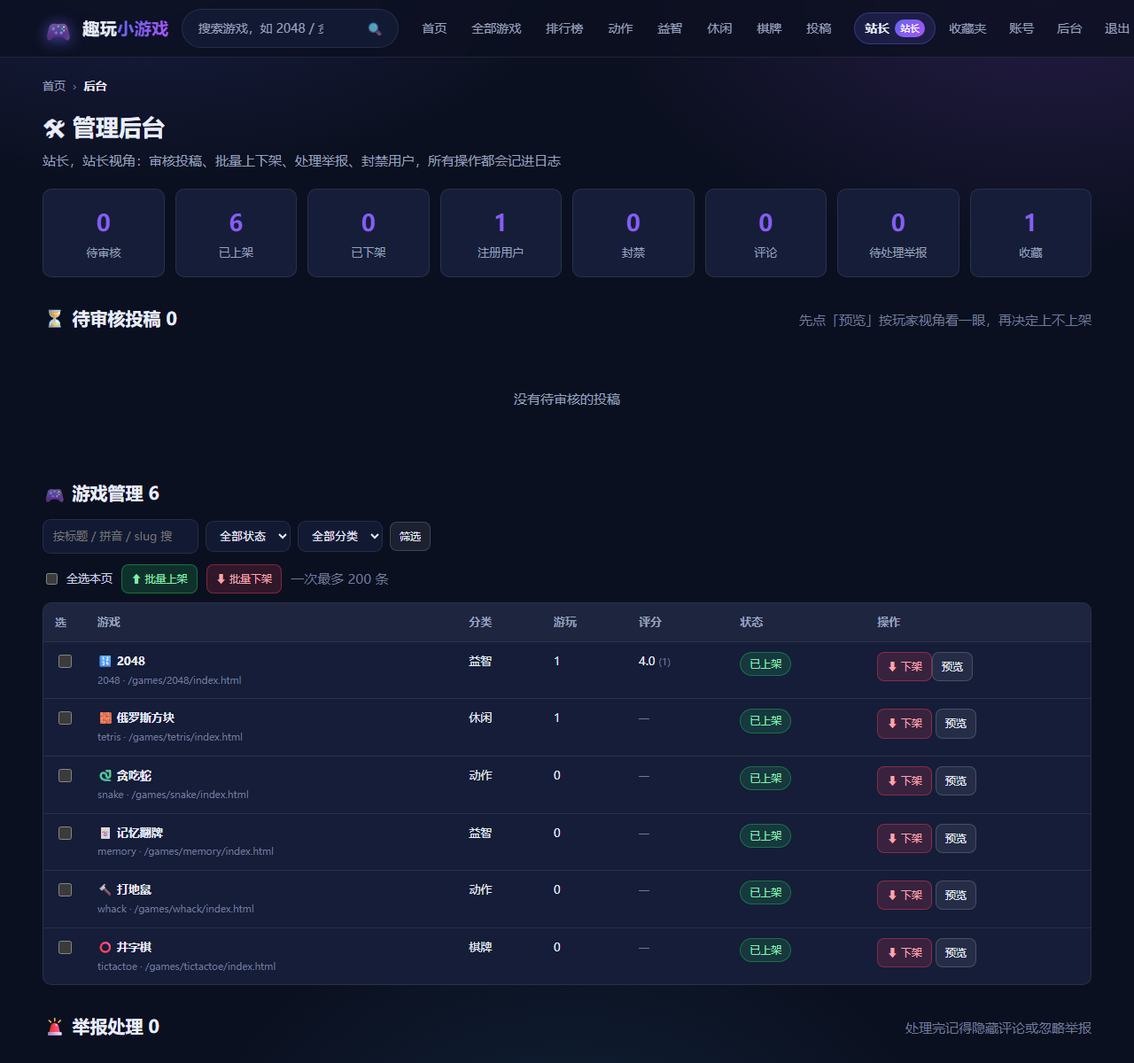
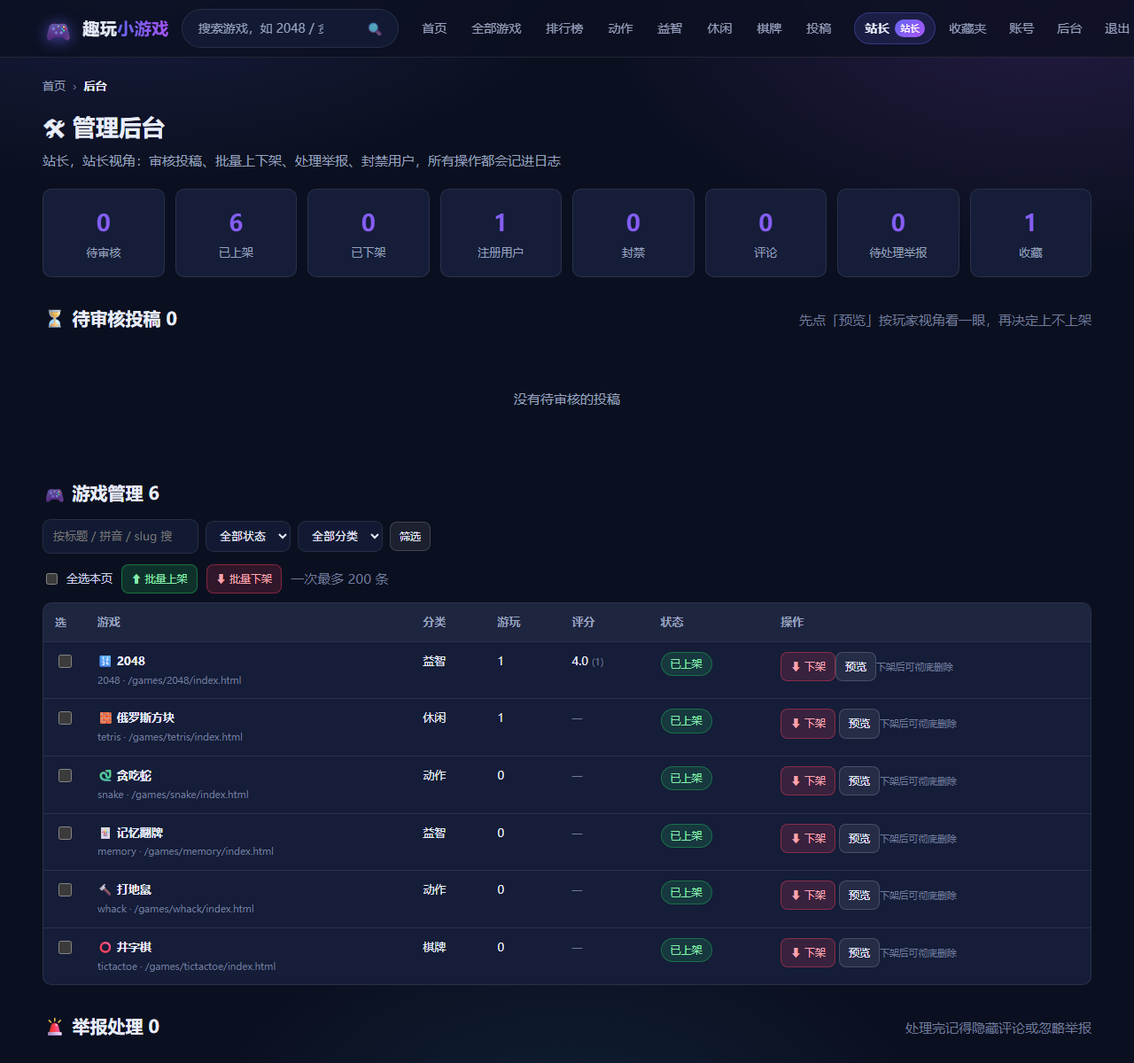
docs: README 与部署文档补彻底删除、集成自检与邮件/第三方登录，并重跑冒烟截图
- README：功能表与路由表补 /admin/games/:slug/delete、后台「集成自检」、邮件走 Resend 或自建 HTTP 接口、
  OAuth 端点可用 OAUTH_<PROVIDER>_*_URL 覆盖；安全设计补「先下架才能删」的事务式删除与「集成自检只回答
  配没配」；已验证段补 104 项功能、42 项邮件与登录断言，并说明新脚本会留下什么。
- DEPLOY-CLOUDFLARE-D1.md：变量表补 OAUTH_<PROVIDER>_*_URL，本机验证命令与实测结果补 104 / 42 项，
  老库升级段说明彻底删除不需要新表新列、集成自检在 /admin 上。
- DEPLOY-CLOUDFLARE-WORKERS.md：验收命令与计数同步到 104 项功能 + 42 项邮件与登录。
- docs/screens：重跑冒烟产生的截图（含后台、详情、排行榜、登录注册等）。

diff --git a/README.md b/README.md
@@ -2,7 +2,7 @@
 
 一个**开箱即跑**的在线小游戏聚合站最小原型：纯 HTML + Express 服务端渲染 + `node:sqlite` 存元数据。
 零前端框架、零构建步骤、零图片文件（封面是运行时生成的 SVG），`pnpm install` 后一条命令即可访问。
-自带完整的账号体系（注册登录、邮箱验证、找回密码、第三方登录、收藏、评论与楼中楼、举报）与站长后台（投稿审核、批量上下架、举报处理、封禁、操作日志），外加 SQLite 排行榜与拼音搜索；投稿可以直接上传**自包含的单文件 HTML**（存库、按 `/ugc/<slug>.html` 托管、用 CSP sandbox 隔离），全部落在本地 SQLite，不依赖任何外部服务。
+自带完整的账号体系（注册登录、邮箱验证、找回密码、第三方登录、收藏、评论与楼中楼、举报）与站长后台（投稿审核、批量上下架、举报处理、封禁、彻底删除、操作日志与集成自检），外加 SQLite 排行榜与拼音搜索；投稿可以直接上传**自包含的单文件 HTML**（存库、按 `/ugc/<slug>.html` 托管、用 CSP sandbox 隔离），全部落在本地 SQLite，不依赖任何外部服务。
 
 ![首页](docs/screens/home.png)
 
@@ -19,11 +19,11 @@
 | 手柄 | 6 款游戏全部支持游戏手柄（十字键 / 摇杆 / A / B / Start），零依赖共享 shim，见「手柄支持」 |
 | 6 款自研游戏 | 2048、贪吃蛇、记忆翻牌、打地鼠、井字棋（minimax AI）、俄罗斯方块 |
 | 账号 | 注册 / 登录 / 退出；`scrypt` 加盐哈希存口令，`HttpOnly` 会话 cookie，30 天有效 |
-| 账号增强 | 邮箱验证（`/verify-email`，24 小时有效）、找回密码（`/forgot` → `/reset`，token 30 分钟一次性）、改密码 / 改昵称 / 解绑第三方账号都在 `/account`；封禁用户当场失效 |
-| 第三方登录 | GitHub / Google / 演示登录（`/auth/:provider`），OAuth 2.0 授权码模式，原生 `fetch` 实现、零依赖；同一个第三方账号只绑一个站内用户，已绑过就直接登录 |
+| 账号增强 | 邮箱验证（`/verify-email`，24 小时有效）、找回密码（`/forgot` → `/reset`，token 30 分钟一次性）、改密码 / 改昵称 / 解绑第三方账号都在 `/account`；**邮件可走 Resend 或自建 HTTP 发信接口**（`MAIL_API_URL` + `MAIL_API_KEY`），没配就落「开发发件箱」，后台的「集成自检」面板会把当前邮件与登录配置摊开给你看 |
+| 第三方登录 | GitHub / Google / 演示登录（`/auth/:provider`），OAuth 2.0 授权码模式，原生 `fetch` 实现、零依赖；同一个第三方账号只绑一个站内用户，已绑过就直接登录；授权 / 令牌 / 用户资料端点都可用 `OAUTH_<PROVIDER>_*_URL` 覆盖（接自建网关或测试环境时用） |
 | 收藏 | 详情页一键「♡ 收藏」，`/favorites` 我的收藏夹 |
 | 评论 | 详情页发评论（≤500 字，同一用户同一游戏 10 秒限流），**分页**（每页 10 条顶层评论，回复默认折叠成「查看全部 N 条回复」）、**楼中楼两级回复**（回复别人时自动挂到同一顶层并 @昵称）、**举报**（spam / abuse / spoiler / other，同一人同一评论只算一次），站长可隐藏 / 恢复 / 处理举报 |
-| 投稿与后台 | `/submit` 登录后投稿进待审队列；`/admin` 站长审核上架、上下架游戏、管理评论，另有**批量上下架**、**投稿预览**（`/admin/preview/:slug`，按详情页的形状看内容）、**处理举报**、**封禁/解封用户**（可带理由）、**手动标记邮箱已验证**、**操作日志**（`audit_logs`，谁什么时候对什么做了什么）与开发发件箱；**投稿上传单文件 HTML**（≤ 512 KB，存库、按 `/ugc/<slug>.html` 托管） |
+| 投稿与后台 | `/submit` 登录后投稿进待审队列；`/admin` 站长审核上架、上下架游戏、管理评论，另有**批量上下架**、**投稿预览**（`/admin/preview/:slug`，按详情页的形状看内容）、**处理举报**、**封禁/解封用户**（可带理由）、**手动标记邮箱已验证**、**操作日志**（`audit_logs`，谁什么时候对什么做了什么）与开发发件箱；**投稿上传单文件 HTML**（≤ 512 KB，存库、按 `/ugc/<slug>.html` 托管）；**彻底删除**（上架中的会先拒绝，确认页把要删掉的评论 / 举报 / 评分 / 收藏 / 游玩记录 / 上传文件逐项列出来） |
 | 评分 | 登录后 5 星打分，一人一票、随时改票；均值实时回写数据库（未登录只能看，点星会引导去登录） |
 | SEO | 每页独立 title/description/canonical/OG、JSON-LD（WebSite / CollectionPage / VideoGame，有人评分时才带 AggregateRating）、`/sitemap.xml`、`/robots.txt`；登录/注册/收藏/投稿/后台一律 `noindex` |
 | 统计 | `POST /api/games/:slug/play`，同一 IP + 同一游戏 30 秒内去重 |
@@ -67,12 +67,16 @@ pnpm start                                               # 或 pnpm dev（--watc
 
 想固定站点域名（影响 canonical / OG / sitemap）：`SITE_ORIGIN=https://example.com pnpm start`。
 
+想真的发信（验证邮箱 / 找回密码）：`RESEND_API_KEY=...` 走 Resend，或用 `MAIL_API_URL` + `MAIL_API_KEY` 指向任何一个接受 `{from,to,subject,text,html}` 的 HTTP 接口，发件人用 `MAIL_FROM` 覆盖；都不配就落「开发发件箱」（控制台打印、后台可见），功能照常能测。
+
+第三方登录：配 `GITHUB_CLIENT_ID` / `GITHUB_CLIENT_SECRET`、`GOOGLE_CLIENT_ID` / `GOOGLE_CLIENT_SECRET` 就会在登录页出现对应按钮（回调地址固定是 `<站点>/auth/<provider>/callback`）；`OAUTH_DEV=1` 可以在生产环境里开「演示登录」。
+
 ## 目录结构
 
 ```
 game-site/
 ├── server.js            Express 入口：安全头、静态目录、页面路由、API、登录守卫
-├── package.json         type: module，scripts: start / dev / reset / smoke / test:account / test:gamepad / test:features / build:pages / zip:cf / serve:dist / smoke:pages / test:worker / serve:worker / test:worker-app / test:worker-features
+├── package.json         type: module，scripts: start / dev / reset / smoke / test:account / test:gamepad / test:features / build:pages / zip:cf / serve:dist / smoke:pages / test:worker / serve:worker / test:worker-app / test:worker-features / test:mail / test:worker-mail
 ├── data/games.db        SQLite 数据库（首次启动自动生成）
 ├── src/
 │   ├── db.js            数据库连接、PRAGMA、建表与索引
@@ -93,7 +97,9 @@ game-site/
 ├── tools/
 │   ├── browser-smoke.mjs  无头 Chrome 真实交互冒烟测试（零依赖，pnpm smoke）
 │   ├── account-test.mjs   账号系统 58 项断言测试（pnpm test:account，可反复跑）
-│   ├── feature-test.mjs   第二批功能 70 项断言：评论分页 / 楼中楼 / 举报、排行榜、拼音搜索、账号增强、后台增强（pnpm test:features）
+│   ├── feature-test.mjs   功能与投稿上传 104 项断言：评论分页 / 楼中楼 / 举报、排行榜、拼音搜索、账号增强、后台增强、投稿上传单文件 HTML、游戏彻底删除（pnpm test:features）
+│   ├── mail-oauth-test.mjs 邮件与第三方登录端到端 42 项：自起假邮件服务端 + 假 OAuth Provider（pnpm test:mail）
+│   ├── worker-mail-oauth-test.mjs 同一套场景换成 D1 数据层（pnpm test:worker-mail）
 │   ├── build-pages.mjs    静态导出：GitHub Pages / Cloudflare Pages + 构建自检（pnpm build:pages）
 │   ├── zip-dist.mjs       把产物目录打成 zip：条目名用 /、中文名带 UTF-8 标志（pnpm zip:cf）
 │   ├── serve-dist.mjs     本地预览 dist（模拟子路径部署，pnpm serve:dist）
@@ -112,10 +118,11 @@ game-site/
 ├── worker/schema.js     建表 + 灌种子 + 站长自举（首次请求时跑，幂等）
 ├── worker/seed-data.js  4 个分类 / 6 款游戏的种子（由 src/seed.js 生成）
 ├── worker/mail.js       D1 版发信：配置从 env 读（RESEND_API_KEY / MAIL_API_URL / MAIL_FROM）
-├── worker/oauth.js      D1 版第三方登录：密钥从 env 读（GITHUB_/GOOGLE_CLIENT_*、OAUTH_DEV）
+├── worker/oauth.js      D1 版第三方登录：密钥从 env 读（GITHUB_/GOOGLE_CLIENT_*、OAUTH_DEV，端点可用 OAUTH_<PROVIDER>_*_URL 覆盖）
 ├── wrangler.toml        Workers 静态版配置：[assets] 指向 dist-cf，绑定名 ASSETS
 ├── wrangler.d1.toml     Workers + D1 配置：多一个 [[d1_databases]] 绑定 DB
 ├── migrations/0001_init.sql  D1 建表脚本（由 worker/schema.js 的 DDL 生成）
+├── migrations/0002_game_files.sql  投稿上传用的 game_files 表（0001 已在线上 apply 过，所以单开一个）
 ├── dist/                静态版产物：GitHub Pages 用（--base=/仓库名/）
 ├── dist-cf/             静态版产物：Cloudflare Pages 用（--base=/，多一个 _headers）
 ├── cloudflare-pages.zip dist-cf 的 zip 包（pnpm zip:cf），Cloudflare 控制台可直接拖拽上传
@@ -156,6 +163,7 @@ game-site/
 | GET/POST | `/forgot` · `/reset` | 忘密码：申请重置信 · 用 token 设新密码（30 分钟一次性） |
 | GET | `/auth/:provider` · `/auth/:provider/callback` | 第三方登录跳转与回调（`github` / `google` / `dev`） |
 | GET | `/admin/preview/:slug` | 后台按详情页形状预览任意状态的游戏（含待审与已下架） |
+| GET/POST | `/admin/games/:slug/delete` | 彻底删除一个游戏：GET 是确认页（列出会一起删掉的评论 / 举报 / 评分 / 收藏 / 游玩记录 / 上传文件），POST 真删；还在上架中的会被 400 拒绝 |
 | GET | `/ugc/:file` | 投稿上传的单文件 HTML 本体（`/ugc/<slug>.html`）；已上架的谁都能取，待审 / 已下架只有站长能取 |
 | POST | `/admin/games/batch` | 批量上架 / 下架 / 通过 / 拒绝（`slug` 可重复传多条） |
 | POST | `/admin/reports/:id/status` | 处理 / 忽略一条举报（需 admin） |
@@ -323,6 +331,8 @@ game_files(slug PRIMARY KEY, filename, size, html, created_at)
 - 第三方登录走 OAuth 2.0 授权码模式，`state` 存 cookie、回调时比对（防 CSRF）；`oauth_accounts` 的主键是 `(provider, provider_uid)`，同一个第三方身份只能绑一个站内用户，已绑过的再次点登录会直接进对应账号（不会新建）。演示登录（`dev`）只在非生产环境或 `OAUTH_DEV=1` 时出现。
 - **封禁即时生效**：封禁时清掉该用户全部 `sessions`，会话恢复那里再兜一道（`activeOrNull`），已登录的当场掉线；登录被拒时文案带上封禁理由。
 - 后台每个写操作都写 `audit_logs`（操作人、动作、目标、明细），后台页直接显示最近 50 条；举报有 `UNIQUE(comment_id, user_id)`，同一人同一条只能算一次。
+- **彻底删除是「先下架才能删」**：`status=1` 时直接 400 拒绝，避免一次误点让线上游戏消失；删除走一个事务（先清 `comment_reports` → `comments` → `ratings` → `favorites` → `play_logs` → `game_files` → `games`），删完 `game.delete` 连同数据量一起写进 `audit_logs`，那张投稿的上传文件也一起没了。
+- **集成自检只回答「配没配」**：后台那块面板显示邮件走的哪种 transport（Resend / 自建 HTTP / 开发发件箱）、发件人、以及每个第三方登录的 client_id / secret 是否已配置与回调地址，**不回显 secret 明文**，也不发起任何外部请求。
 
 > **上线前必做**：把游戏资源挪到**独立域名**（例如 `games.example.com`），详情页 iframe 指向该域名，并把 `allow-same-origin` 去掉——这样才能真正隔离第三方游戏，防止它读到主站 cookie。
 > 另外记得改掉默认管理员口令，并在前面挂 HTTPS。
@@ -435,10 +445,12 @@ node tools/browser-smoke.mjs           # 另开终端，BASE=http://127.0.0.1:44
 - 后台与账号相关的页面在无头 Chrome 里截图确认过：`docs/screens/login.png`、`register.png`、`submit.png`、`admin.png`、`favorites.png`、`rating.png`。
   手柄自测也会留下 `docs/screens/gamepad-2048.png`、`gamepad-tictactoe.png`、`gamepad-memory.png`、`gamepad-whack.png`、`gamepad-detail-iframe.png`（能直接看到虚拟光标和底部的「🎮 手柄已连接」提示）。
 - 手柄支持在无头 Chrome 里跑过 `pnpm test:gamepad`：注入一台假手柄（挂在 `window.top.__pad` 上），**7 个用例全过**（2048 / 贪吃蛇 / 俄罗斯方块 / 井字棋 / 记忆翻牌 / 打地鼠 / 详情页 iframe 自动聚焦并接收手柄输入）；静态版导出后游戏页与 `gamepad.js` 都带 `--base` 前缀，冒烟同样通过。
-  - **第二批功能（评论分页/楼中楼/举报、排行榜、拼音与首字母搜索、账号增强、后台增强、投稿上传单文件 HTML）`pnpm test:features` 共 89 项断言全部通过**，同一套用例换成 D1 数据层再跑 `pnpm test:worker-features` 同样 **89 项全过**（见 `tools/feature-test.mjs`，两套共用一个文件）；其中 1 项专门盯着 `frame-src`（详情页 CSP 必须放行 `http(s)`，否则投稿的外站游戏打不开）；另有 18 项是投稿上传：文件框 + multipart 表单、上传后进待审、待审对游客 404 而站长能取、响应是 `text/html` + sandbox CSP（不含 `allow-same-origin`）、后台预览与详情页 iframe 都是严格沙箱、超 512 KB / 扩展名不对 / 非文本一律 400、只填地址的老投稿仍可用、站长上架后游客能取到并能直接玩、退回待审后又 404。
+  - **第二批功能 + 投稿上传 + 彻底删除（评论分页/楼中楼/举报、排行榜、拼音与首字母搜索、账号增强、后台增强、投稿上传单文件 HTML、游戏彻底删除）`pnpm test:features` 共 104 项断言全部通过**，同一套用例换成 D1 数据层再跑 `pnpm test:worker-features` 同样 **104 项全过**（见 `tools/feature-test.mjs`，两套共用一个文件）；其中 1 项专门盯着 `frame-src`（详情页 CSP 必须放行 `http(s)`，否则投稿的外站游戏打不开）；另有 18 项是投稿上传：文件框 + multipart 表单、上传后进待审、待审对游客 404 而站长能取、响应是 `text/html` + sandbox CSP（不含 `allow-same-origin`）、后台预览与详情页 iframe 都是严格沙箱、超 512 KB / 扩展名不对 / 非文本一律 400、只填地址的老投稿仍可用、站长上架后游客能取到并能直接玩、退回待审后又 404；最后 15 项是「彻底删除」：造一条带文件的投稿并写上评分 / 收藏 / 评论 / 游玩记录，上架中删不掉（400），下架后确认页把 6 项数据量逐一对上，POST 删除 302 回后台、详情页与 `/ugc/` 随即 404、操作日志里留下 `game.delete`。
+- **邮件与第三方登录端到端 `pnpm test:mail` 共 42 项断言全部通过**（脚本自己起一个假邮件服务端与一个假 OAuth Provider，随机端口、不连外网）：绑定邮箱 → 收到验证信（`Authorization: Bearer` 的令牌、收件人、`MAIL_FROM` 发件人逐项核对）→ 点链接变成已验证；`/forgot` → 重置信 → `/reset` 改密 → 新密码能登、旧密码登不上、账号不存在时也是同一套说辞；GitHub 走完授权 → 回调 → 建号 → 换个浏览器再登还是同一个账号（不重复建号）→ 解绑；Google 同样走通，且资料里的邮箱被存下来并当成已验证；`state` 对不上 400、没开启的 provider 404；后台「集成自检」认出邮件走的是自建 HTTP 服务、GitHub / Google 的 client_id 与 secret 都是 ✅、回调地址与站点一致。同一套场景换成 D1 数据层再跑 `pnpm test:worker-mail` 同样 **42 项全过**。
 - `pnpm smoke`（Express）**18 项全部通过**，含新增的排行榜页（7 个榜单 tab、名次与「新上榜」标记）、搜索联想（首字母 / 全拼 / 中文三条路径）与 `frame-src` 探针（测试进程自己起一个别的 origin 的小页面塞进 iframe，靠它 `postMessage` 回来证明没被 CSP 拦住——把 CSP 锁回 `'self'` 时这一项确实会红）；`pnpm smoke`（Workers + D1）同样 **18 项全部通过**。
 > `pnpm smoke` 会用默认管理员真登录一次，并给 2048 留一条评分与一条收藏记录；
-  > `pnpm test:account` 会留下 tester1 / tester2 两个账号和一条待审投稿；`pnpm test:features` 会再留下两条测试投稿（其中一条是上传的单文件 HTML，跑完会退回待审）。
+  > `pnpm test:account` 会留下 tester1 / tester2 两个账号和一条待审投稿；`pnpm test:features` 会再留下两条测试投稿（其中一条是上传的单文件 HTML，跑完会退回待审），并且**真删掉它自己造的那条投稿**（日志里因此多一条 `game.delete`）。
+  > `pnpm test:mail` / `pnpm test:worker-mail` 会自己起假邮件服务端与假 OAuth Provider（随机端口、不走外网），只往库里写测试账号，跑完不删数据。
   > 两份脚本都按「增量」写断言——评分只看自己那一票、收藏只看总数的变化——所以先跑谁、重复跑几轮结果都一样（同一个库上连跑两遍 account-test 仍是 58/58），前提只是 2048 这个 slug 还在；
   > 跑完想干净就按上面「彻底回到出厂状态」删库重启。
 
@@ -447,5 +459,6 @@ node tools/browser-smoke.mjs           # 另开终端，BASE=http://127.0.0.1:44
 - 排行榜现在是「SQLite 实时算」，量大了可以换成 Redis 的 `ZINCRBY` / `ZREVRANGE`（`/rank` 这一层不用改，只换数据源）。
 - 搜索仍是 LIKE + 拼音表（覆盖 `U+4E00..U+9FFF`）；要错字容错、词义相关性就换 Meilisearch 之类，接口形状已经收在 `searchGames()` 里。
 - 微信登录需要企业主体与审核，代码里留的是 GitHub / Google 两条线；再加 Provider 只需往 `src/oauth.js` 的 `META` 里填一组地址即可。
-- 邮件现在支持 Resend 或自定义 `MAIL_API_URL`；正式发信还该配好 SPF/DKIM 与退信处理。
+- 邮件现在支持 Resend 或自建 HTTP 发信接口（`MAIL_API_URL` + `MAIL_API_KEY`）；正式发信还该配好 SPF/DKIM、退信与重试。
+- 第三方登录的授权 / 令牌 / 用户资料端点已经能用 `OAUTH_<PROVIDER>_*_URL` 覆盖，要接自建 OAuth 网关（比如把 GitHub 藏在公司出口后面）不用改代码。
 - 图片/视频素材、真实 OG 截图。

diff --git a/DEPLOY-CLOUDFLARE-D1.md b/DEPLOY-CLOUDFLARE-D1.md
@@ -3,7 +3,7 @@
 纯静态版（`worker/index.js`）只能浏览和玩游戏；这一份用 `worker/app.js` + **D1**（Cloudflare 的托管 SQLite）
 把 Express 版的服务端能力整体搬到边缘：注册登录、评分、评论、收藏、投稿（含上传单文件 HTML）、管理后台、游玩次数统计全都在。
 
-> 我在本机把整条链路跑通了（58 项账号验收 + 89 项功能验收 + 18 项浏览器冒烟），但**没有外网、没有 Cloudflare 凭证**，
+> 我在本机把整条链路跑通了（58 项账号验收 + 104 项功能验收 + 42 项邮件与第三方登录端到端 + 18 项浏览器冒烟），但**没有外网、没有 Cloudflare 凭证**，
 > 所以最后那几条 `wrangler` 命令需要你在自己机器上执行。下面每条都写清了预期输出。
 
 ## 一、两个版本的区别
@@ -157,6 +157,7 @@ wrangler d1 execute game-site-db --remote --command "DELETE FROM comments; DELET
 - **新列不能靠 `CREATE TABLE IF NOT EXISTS` 补**（表已存在时整句会被跳过），所以 `worker/schema.js` 里带了 D1 版的补列助手：启动时 `PRAGMA table_info(<表>)` 查一遍，缺哪列就 `ALTER TABLE ... ADD COLUMN`（对应 `src/db.js` 的 `addColumn`）。已有的线上库**直接重新部署一次就行**，不需要手工跑 SQL。
 - 索引同理，新增了 `idx_games_status`、`idx_comments_parent`、`idx_reports_status`、`idx_audit_recent`、`idx_oauth_user`、`idx_reset_user`。
 - 排行榜的数据来自 `play_logs`，没有引入 Redis 之类的外部存储；表结构不需要额外准备。
+- 投稿上传的单文件 HTML 存在 `game_files`（`migrations/0002_game_files.sql`）；「彻底删除游戏」只是把 `comment_reports` / `comments` / `ratings` / `favorites` / `play_logs` / `game_files` / `games` 里的行按事务删掉，同样不需要新表新列。
 
 ### 邮箱与第三方登录要配的变量
 
@@ -168,26 +169,30 @@ wrangler d1 execute game-site-db --remote --command "DELETE FROM comments; DELET
 | `GITHUB_CLIENT_ID` / `GITHUB_CLIENT_SECRET` | GitHub 登录 | 登录页不显示 GitHub 按钮 |
 | `GOOGLE_CLIENT_ID` / `GOOGLE_CLIENT_SECRET` | Google 登录 | 登录页不显示 Google 按钮 |
 | `OAUTH_DEV` | 值为 `1` 时开放「演示登录」（不连第三方，直接给一个测试身份） | 默认关闭 |
+| `OAUTH_<PROVIDER>_AUTHORIZE_URL` / `_TOKEN_URL` / `_USER_URL` / `_EMAILS_URL` | 覆盖该 Provider 的授权 / 令牌 / 用户资料端点（`<PROVIDER>` 取 `GITHUB` / `GOOGLE`），接自建 OAuth 网关或测试环境时用 | 用 GitHub / Google 官方地址 |
 
 - 这些都是 Workers 的 vars / secret：值不敏感的直接写 `wrangler.d1.toml` 的 `[vars]`，敏感的用 `npx wrangler secret put MAIL_API_KEY`（`GITHUB_CLIENT_SECRET`、`GOOGLE_CLIENT_SECRET`、`RESEND_API_KEY` 同理）。
 - 发信配置一个都没有时，注册 / 找回流程照样能走完：验证链接会打印在 `/admin` 页面的「开发发件箱」区块里（最近 50 封）。
 - 发信失败（配额、域名未验证等）不会把接口打挂，接口只回 `{ ok: true, sent: false }`，页面提示稍后再试。
 - OAuth 回调地址固定是 `<站点域名>/auth/<provider>/callback`，要在 GitHub / Google 后台登记这个地址；`SITE_ORIGIN`（可选）在挂了自定义域名时用来覆盖 Worker 推断出来的 origin。
 - 一个第三方身份只对应一个站内用户（`oauth_accounts` 主键 `(provider, provider_uid)`）；绑定与解绑都在 `/account`。
+- 配好之后打开 `/admin`，页面上的「集成自检」会把当前生效的邮件 transport（Resend / 自建 HTTP / 开发发件箱）、发件人、以及每个第三方登录的 client_id / secret 是否已配置和回调地址列出来——只回答「配没配」，不显示 secret 明文，也不发起任何外部请求。
 
 ## 七、本机怎么验证（不需要 Cloudflare 账号）
 
 ```bash
 node tools/serve-worker.mjs --reset        # http://127.0.0.1:4400，node:sqlite 冒充 D1
 node tools/worker-app-test.mjs             # 一条命令跑 58 项账号验收（自动挑端口、自动建库）
-node tools/worker-feature-test.mjs         # 89 项第二批功能验收（同一份用例换成 D1 数据层，含投稿上传单文件 HTML）
+node tools/worker-feature-test.mjs         # 104 项功能验收（同一份用例换成 D1 数据层，含投稿上传单文件 HTML、彻底删除）
+node tools/worker-mail-oauth-test.mjs      # 42 项邮件与第三方登录端到端（自起假邮件服务端 + 假 OAuth Provider，不连外网）
 node tools/browser-smoke.mjs               # 另开终端，BASE=http://127.0.0.1:4400
 ```
 
 - `tools/d1-local.mjs`：用 Node 22 的 `node:sqlite` 实现 D1 的 `prepare/bind/first/all/run/batch/exec`，
   `tools/serve-worker.mjs`：Node http 当壳、把请求交给真正的 `worker/app.js`。
 - 本机实测结果：**58 项账号断言全过**（注册/登录/评分/收藏/评论/投稿/后台/开放重定向），
-  **89 项第二批功能断言全过**（评论分页 / 楼中楼 / 举报、排行榜、拼音与首字母搜索、邮箱验证、改密、找回密码、演示登录、后台批量上下架 / 举报处理 / 封禁 / 手动验证邮箱，以及投稿上传单文件 HTML：存进 D1、按 `/ugc/<slug>.html` 取回、响应带 sandbox CSP、超 512 KB / 扩展名不对 / 非文本一律 400），
+  **104 项功能断言全过**（评论分页 / 楼中楼 / 举报、排行榜、拼音与首字母搜索、邮箱验证、改密、找回密码、演示登录、后台批量上下架 / 举报处理 / 封禁 / 手动验证邮箱、投稿上传单文件 HTML：存进 D1、按 `/ugc/<slug>.html` 取回、响应带 sandbox CSP、超 512 KB / 扩展名不对 / 非文本一律 400，以及彻底删除：上架中拒绝、确认页数据量、删完详情页与 `/ugc/` 都 404），
+  **42 项邮件与第三方登录断言全过**（`tools/mail-oauth-test.mjs` 的场景换成 D1 数据层：绑定邮箱收到验证信、点链接变已验证、找回密码改密、GitHub / Google 授权回调建号与复用账号、`state` 校验失败 400、后台集成自检面板），
   **18 项浏览器冒烟全过**（含 6 款游戏真操作、后台页、收藏页、投稿页、排行榜页、搜索联想），无 console 报错、无资源 404。
   静态产物那边 `node tools/worker-test.mjs` 另有 **24 项断言**（页面 200、站内链接 54 条全通）。
 - 后来又在**真实 workerd + 真实 D1 语义**下跑了一遍（`wrangler dev -c wrangler.d1.toml`，wrangler 4.151.0，端口 8790）：
@@ -252,5 +257,5 @@ curl -s  https://你的域名/sitemap.xml          # 里应是你的真实域名
 - 真实 Workers 运行时里 PBKDF2 的 CPU 时间、线上响应头与缓存的实际表现；
 - D1 的免费额度与限额数字。
 
-已经在本机验证过的：`worker/app.js` 的全部路由与业务逻辑（58 项账号断言 + 89 项功能断言，账号那套还在真 workerd + 真 D1 语义下复跑通过）、
+已经在本机验证过的：`worker/app.js` 的全部路由与业务逻辑（58 项账号断言 + 104 项功能断言 + 42 项邮件与登录断言，账号那套还在真 workerd + 真 D1 语义下复跑通过）、
 14 个页面的浏览器渲染与交互、静态资源与安全响应头（24 项断言，见 `tools/worker-test.mjs`）。

diff --git a/DEPLOY-CLOUDFLARE-WORKERS.md b/DEPLOY-CLOUDFLARE-WORKERS.md
@@ -149,7 +149,7 @@ curl -sI https://你的域名/favicon.ico           # 302 -> /favicon.svg
 
 这套改造的核心工作是把数据层从同步 SQLite 换成异步 D1、把 `express` 的路由换成 Worker 里的 `URL` 分发。
 
-> **这些都已经做好了。** 想要带服务端的完整版，直接看 [`DEPLOY-CLOUDFLARE-D1.md`](DEPLOY-CLOUDFLARE-D1.md)：账号 / 邮箱验证 / 找回密码 / 第三方登录 / 评分 / 评论与楼中楼 / 举报 / 收藏 / 投稿（含上传单文件 HTML） / 后台 / 排行榜 / 拼音搜索全部在 Workers + D1 上，本机验收 **58 项账号 + 70 项功能断言**、**23 项产物冒烟**与 **17 项浏览器冒烟**全部通过。
+> **这些都已经做好了。** 想要带服务端的完整版，直接看 [`DEPLOY-CLOUDFLARE-D1.md`](DEPLOY-CLOUDFLARE-D1.md)：账号 / 邮箱验证 / 找回密码 / 第三方登录 / 评分 / 评论与楼中楼 / 举报 / 收藏 / 投稿（含上传单文件 HTML） / 后台（批量上下架、举报处理、封禁、彻底删除、集成自检） / 排行榜 / 拼音搜索全部在 Workers + D1 上，本机验收 **58 项账号 + 104 项功能 + 42 项邮件与第三方登录 + 24 项产物冒烟 + 18 项浏览器冒烟**全部通过。
 
 ## 我这边验证过的
 
@@ -162,7 +162,8 @@ node tools/worker-test.mjs
 ```
     node tools/worker-test.mjs               → 24 项断言全部通过（含「静态路径不产生任何跳转」）
     node tools/worker-app-test.mjs           → 58 项账号断言全部通过
-    node tools/worker-feature-test.mjs       → 89 项第二批功能断言全部通过（同一份用例换 D1 数据层，含投稿上传单文件 HTML）
+    node tools/worker-feature-test.mjs       → 104 项功能断言全部通过（同一份用例换 D1 数据层，含投稿上传单文件 HTML 与彻底删除）
+    node tools/worker-mail-oauth-test.mjs    → 42 项邮件与第三方登录断言全部通过（自起假邮件服务端 + 假 OAuth Provider，不连外网）
     BASE=http://127.0.0.1:4400 node tools/browser-smoke.mjs → 18 项浏览器冒烟全部通过
     wrangler dev（真 workerd，端口 8788）     → 逐路径实测：无跳转，安全头 / 缓存头 / 404 / favicon 302 全部正确
     wrangler dev -c wrangler.d1.toml（8790）  → D1 版逐页面 200，/favorites 与 /admin 正确 302 到登录
